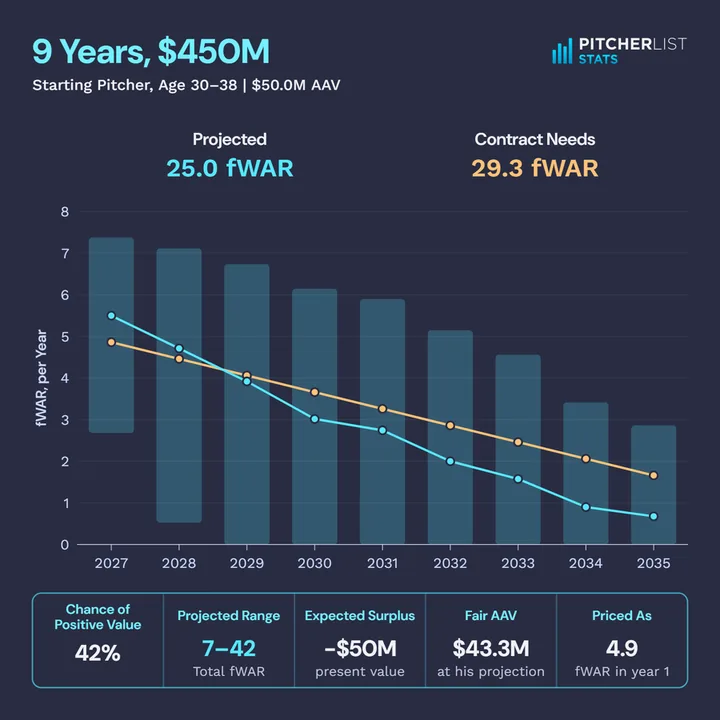
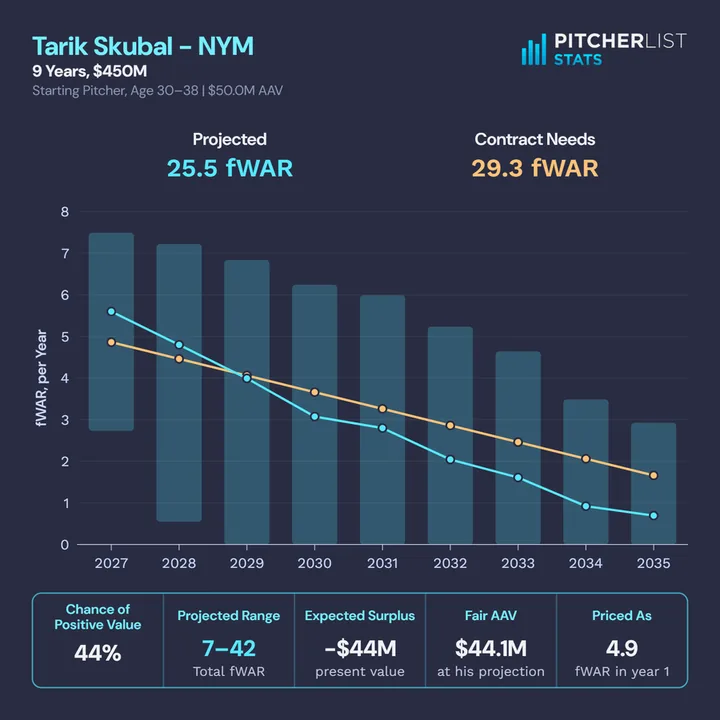
Homepage: regrab the Contract vs. Projection tile (Skubal - NYM header, 5.6 fWAR, #399)

diff --git a/index.html b/index.html
@@ -313,7 +313,7 @@
 								</article>
 									<article class="style6">
 									<span class="image">
-										<img src="images/tile-contract-eval.webp?v=7" srcset="images/tile-contract-eval-720.webp?v=7 720w, images/tile-contract-eval.webp?v=7 900w" sizes="(max-width: 480px) 100vw, (max-width: 980px) 50vw, 380px" width="900" height="900" alt="A 9-year, $450M contract for a 30-year-old starting pitcher: projected fWAR by season against the fWAR the deal pays for, 25.0 to 29.3" />
+										<img src="images/tile-contract-eval.webp?v=8" srcset="images/tile-contract-eval-720.webp?v=8 720w, images/tile-contract-eval.webp?v=8 900w" sizes="(max-width: 480px) 100vw, (max-width: 980px) 50vw, 380px" width="900" height="900" alt="Tarik Skubal - NYM: a 9-year, $450M deal for a 30-year-old starting pitcher, his projected fWAR by season with 10th-90th percentile bars against the fWAR the contract pays for, 25.5 to 29.3" />
 									</span>
 									<a href="/contract-eval/">
 										<h2>Contract vs. Projection</h2>
